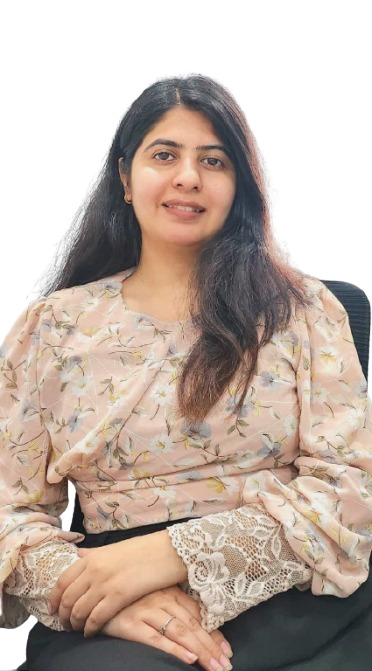
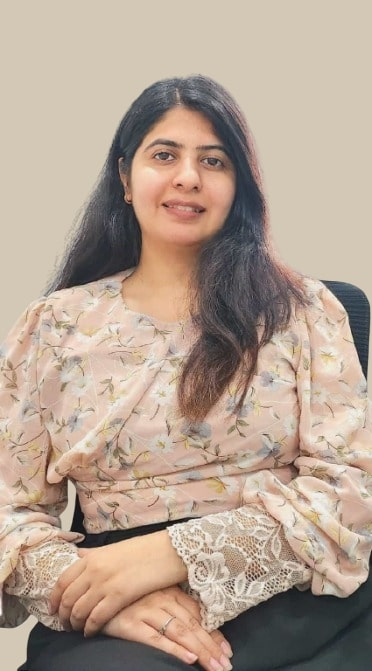
crop image and added bg

diff --git a/app/our-partners/[directorNameSlug]/page.tsx b/app/our-partners/[directorNameSlug]/page.tsx
@@ -5,26 +5,26 @@ import { notFound } from 'next/navigation';
 const directors = [
   {
     name: 'Devanshi Jhamb',
-    role: 'Founder & CEO',
-    imageUrl: '/images/Devanshi.jpg',
+    role: 'Co-Founder & CEO',
+    imageUrl: '/images/Devanshi.png',
     bio: 'Experienced IT Recruitment & Client Relationship Professional | US IT Staffing | BDM | Talent Acquisition | Resource Management\n\nWith over 5 years of progressive experience in the IT recruitment and staffing industry, I bring a comprehensive skill set spanning Client Relationship Management, Business Development, Resource Management, and End-to-End IT Recruitment—both in domestic and US markets.\n\nIn my journey, I\'ve successfully handled full-cycle recruitment, from understanding client requirements and sourcing top-tier talent to negotiating offers and ensuring smooth onboarding. My exposure to US IT recruitment has equipped me with deep knowledge of technical roles, hiring challenges, visa processes (H1B, GC, USC), and compliance requirements.\n\nAs a Client Relationship Manager, I\'ve built and nurtured long-term relationships with key clients, ensuring consistent delivery, retention, and client satisfaction. In the Business Development (BDM) function, I\'ve opened new business channels, developed strategic partnerships, and increased revenue streams. My role as a Resource Manager allowed me to mentor recruitment teams, align talent pipelines with business needs, and streamline hiring processes.\n\nCore Competencies:\n• End-to-End IT Recruitment (Domestic & US Staffing)\n• Client Relationship & Account Management\n• Business Development & Lead Generation\n• Talent Acquisition Strategy\n• Team Leadership & Resource Allocation\n• Recruitment Tools: ATS, Job Portals (Dice, Monster, CareerBuilder), LinkedIn, etc.\n• Excellent Communication, Negotiation & Interpersonal Skills\n\nI am passionate about matching the right talent with the right opportunities and delivering recruitment solutions that drive business growth.',
   },
   {
     name: 'Dikshant Nagpal',
-    role: 'Founder & CFO',
-    imageUrl: '/images/Dikshant.jpg',
+    role: 'Co-Founder & CFO',
+    imageUrl: '/images/Dikshant.png',
     bio: 'Mr Dikshant Nagpal is a Chartered Accountant with post qualification experience of more than 6 years. He is a certified Forensic Accounting and Fraud Detection (FAFD) from ICAI. He has an experience of handling various multinational clients by offering services related to audiit & assurance, risk advisory services, forecasting, tax planning and other advisory services.\n\nHe has rich experience of providing services to various industries especially in IT consultancy and Technology, where he has also performed role as a virtual CFO and handles tasks such as taking crucial decisions related to investments, mitigating risks including ROI analysis, budgeting & forecasting, internal controls and maintaining effective\u00a0costs.',
   },
   {
     name: 'Sheenam Taneja',
     role: 'Project Manager',
-    imageUrl: '/images/person.jpg',
+    imageUrl: '/images/Sheenam.png',
     bio: 'IT Project Manager | Team Lead | Technical Recruitment Specialist | Client Relationship & Resource Management | B.Tech in Computer Science | 10+ Years\n\nWith over a decade of experience in the IT industry, I bring a unique blend of Project Management, Technical Recruitment, and Client Relationship expertise. My professional journey has equipped me to lead projects end-to-end while also ensuring talent alignment through strategic hiring and candidate sourcing, especially for niche and hard-to-fill IT roles.\n\nHolding a Bachelor\'s degree in Computer Science, I bring a strong technical foundation that allows me to understand complex job requirements, communicate effectively with engineering teams, and identify top-tier candidates with precision. My hands-on experience in sourcing, screening, and onboarding talent across various domains has been instrumental in building high-performing teams.\n\nAs a Project Manager, I\'ve successfully delivered IT solutions by coordinating between stakeholders, managing resource allocation, and maintaining project timelines. My background in Recruitment and Resource Management enables me to align technical hiring strategies with broader project goals, especially in fast-paced and dynamic environments.\n\nCore Expertise:\n• IT Project Management & Delivery\n• End-to-End Technical Recruitment\n• Niche Skill Sourcing & Screening\n• Client Relationship & Account Management\n• Resource Planning & Allocation\n• Cross-Functional Team Leadership\n• Recruitment Platforms: LinkedIn, Dice, Monster, Job Diva, ATS tools\n\nDriven by a passion for both technology and talent, I thrive in roles that demand both strategic oversight and hands-on execution. My goal is to bridge the gap between business needs and the right talent, ensuring timely project delivery and long-term success.',
   },
   {
     name: 'Anju Thakur',
     role: 'Talent Acquisition Specialist',
-    imageUrl: '/images/Anju.jpg',
+    imageUrl: '/images/Anju.png',
     bio: 'Results-driven IT Services and Consulting professional with over 3 years of experience, currently engaged with UniLync Soft-Tech Pvt. Ltd., working independently in dual roles as a Technical Account Specialist (TAS) and Business Development Executive (BDE). I specialize in aligning business needs with tailored IT solutions, managing client relationships, and driving strategic growth in competitive markets.\n\nAt UniLync Soft-Tech, I manage end-to-end client engagement—from pre-sales consultation and technical advisory to solution delivery and post-sales support. I bring a balanced skill set of technical acumen and business development expertise, allowing me to effectively bridge client requirements with scalable tech solutions.\n\nIn my role as TAS, I act as a trusted technical advisor, ensuring clients receive maximum value from our solutions. In parallel, my BDE responsibilities involve identifying growth opportunities, generating leads, and closing new business across various sectors.\n\nI\'m passionate about enabling digital transformation for businesses through innovative IT services. Let\'s connect if you\'re exploring partnerships, tech solutions, or opportunities in the IT landscape.',
   },
 ];
@@ -63,7 +63,7 @@ export default async function DirectorDetail({ params }: PageProps) {
           <div className="w-full md:w-1/3 flex justify-center">
             <div className="relative w-full aspect-[3/2] max-w-sm">
               <Image
-                className="object-contain rounded-2xl shadow-lg"
+                className="object-contain rounded-2xl shadow-lg bg-[#E2DBD0]"
                 src={director.imageUrl}
                 alt={director.name}
                 fill

diff --git a/app/our-partners/page.tsx b/app/our-partners/page.tsx
@@ -4,26 +4,26 @@ import Link from 'next/link';
 const directors = [
   {
     name: 'Devanshi Jhamb',
-    role: 'Founder & CEO',
-    imageUrl: '/images/Devanshi.jpg',
+    role: 'Co-Founder & CEO',
+    imageUrl: '/images/Devanshi.png',
     bio: 'IT staffing expert with 5+ years in US recruitment, client handling, BDM, and strategic talent acquisition.',
   },
   {
     name: 'Dikshant Nagpal',
-    role: 'Founder & CFO',
-    imageUrl: '/images/Dikshant.jpg',
+    role: 'Co-Founder & CFO',
+    imageUrl: '/images/Dikshant.png',
     bio: 'CA with 6+ yrs experience, FAFD certified, expert in audit, risk, tax, and virtual CFO services for IT and tech firms.',
   },
   {
     name: 'Sheenam Taneja',
     role: 'Project Manager',
-    imageUrl: '/images/person.jpg',
+    imageUrl: '/images/Sheenam.png',
     bio: 'IT Project Manager with 10+ years experience in project delivery, technical recruitment, and client management.',
   },
   {
     name: 'Anju Thakur',
     role: 'Talent Acquisition Specialist',
-    imageUrl: '/images/Anju.jpg',
+    imageUrl: '/images/Anju.png',
     bio: 'IT professional with 3+ years at UniLync Soft-Tech, skilled in client management, tech advisory, and business growth.',
   },
 ];
@@ -44,9 +44,9 @@ export default function OurPartners() {
           className="mx-auto mt-20 grid max-w-2xl grid-cols-1 gap-x-8 gap-y-16 sm:grid-cols-2 lg:mx-0 lg:max-w-none lg:grid-cols-4"
         >
           {directors.map((director) => (
-            <li key={director.name} className="relative rounded-2xl overflow-hidden shadow-lg group text-center">
+            <li key={director.name} className="relative rounded-2xl overflow-hidden shadow group text-center">
               {/* Image container with hover effect for bio */}
-              <div className="relative aspect-[3/2] w-full overflow-hidden rounded-2xl">
+              <div className="relative aspect-[3/2] w-full overflow-hidden rounded-2xl bg-[#E2DBD0]">
                 <Image
                   className="object-contain w-full h-full"
                   src={director.imageUrl}

diff --git a/app/services/page.tsx b/app/services/page.tsx
@@ -25,7 +25,7 @@ const coreServices = [
 const whyChooseUs = [
   'Client-Centric Approach: We listen, understand, and deliver solutions that align with your business goals.',
   'Technical Excellence: Our teams bring deep expertise in emerging technologies and best practices.',
-  'Scalable Solutions: Whether you&apos;re growing fast or optimizing operations, we offer flexible models to suit your needs.',
+  'Scalable Solutions: Whether you are growing fast or optimizing operations, we offer flexible models to suit your needs.',
   'Commitment to Quality: We uphold high standards of quality, transparency, and accountability in everything we do.'
 ];
 
